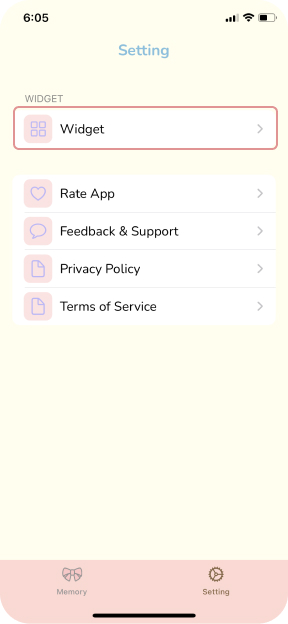
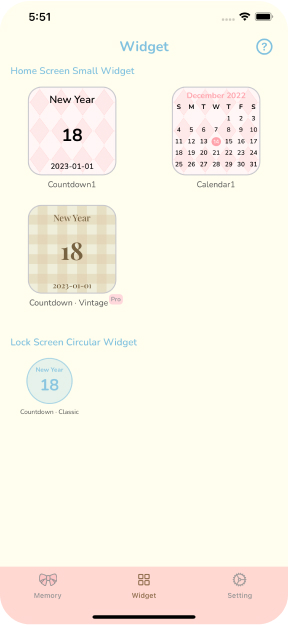
new tutorial_en

diff --git a/_posts/2022-08-11-widgettutorialen.md b/_posts/2022-08-11-widgettutorialen.md
@@ -1,36 +1,31 @@
 ---
 title: "Widget Tutorial - Memory"
-date: 2022-08-24
+date: 2022-12-14
 # tags: [tutorial]
 ---
 
-- **How to add a widget to the home screen?**
-
-### 1.
-Go to the home screen and long press any empty space.\
-Click the「+」button at the top.\
+### How to add a widget to the home screen?**
+> 1. Go to the home screen and long press any empty space.\
+> Click the「+」button at the top.\
 ![Alt text](/images/tutorial_1.jpg?raw=true "Optional Title")
 
-### 2. 
-You can search or find the「Memory」widget in the list.\
+- 2. Search or find the「Memory」in the list of widgets.\
 ![Alt text](/images/tutorial_2.jpg?raw=true "Optional Title")
 
-### 3.
-Click「Memory」widget to add it to the home screen.\
+- 3. Click "Add Widget" to add a widget to the home screen.\
 ![Alt text](/images/tutorial_3.jpg?raw=true "Optional Title")
 
-- **How to edit a widget on the home screen?**
 
-### 4.
-After adding the default widget to the home screen, long press the widget and select "Edit Widget".\
+### How to edit a widget on the home screen?**
+- 4.After adding the default widget to the home screen, long press the widget and select "Edit Widget".\
 ![Alt text](/images/tutorial_4.jpg?raw=true "Optional Title")
 
-### 5.
-Click the "Select Style" to choose a style of the widget.\
+- 5.Click the "Select Style" to choose a style of the widget.\
 ![Alt text](/images/tutorial_5.jpg?raw=true "Optional Title")
+![Alt text](/images/tutorial_5_1.jpg?raw=true "Optional Title") \
+After upgrading to the Pro version, the list of the avaliable widgets styles will contain the pro version widget.
+![Alt text](/images/tutorial_5_2.jpg?raw=true "Optional Title")
 
-- **How to edit the content of a widget?**
-
-### 6.
-You can edit the widget's content within the app's Setting -> Widget.\
+### How to edit the content of a widget?**
+- 6.You can edit the widget's content within the app's Widget section.\
 ![Alt text](/images/tutorial_6.jpg?raw=true "Optional Title")

diff --git a/_posts/2022-08-11-widgettutorialzhhans.md b/_posts/2022-08-11-widgettutorialzhhans.md
@@ -1,6 +1,6 @@
 ---
 title: "小组件教程"
-date: 2022-08-11
+date: 2022-08-25
 # tags: [tutorial]
 ---
 

diff --git a/_posts/2022-08-11-widgettutorialzhhant.md b/_posts/2022-08-11-widgettutorialzhhant.md
@@ -1,6 +1,6 @@
 ---
 title: "小組件教程"
-date: 2022-08-11
+date: 2022-08-25
 # tags: [tutorial]
 ---
 
